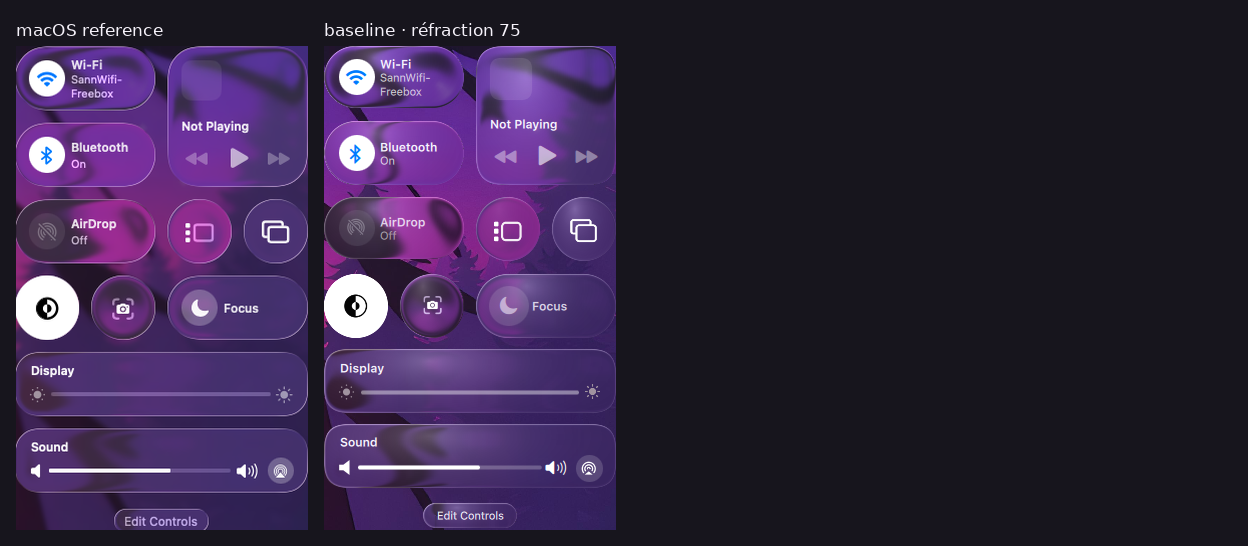
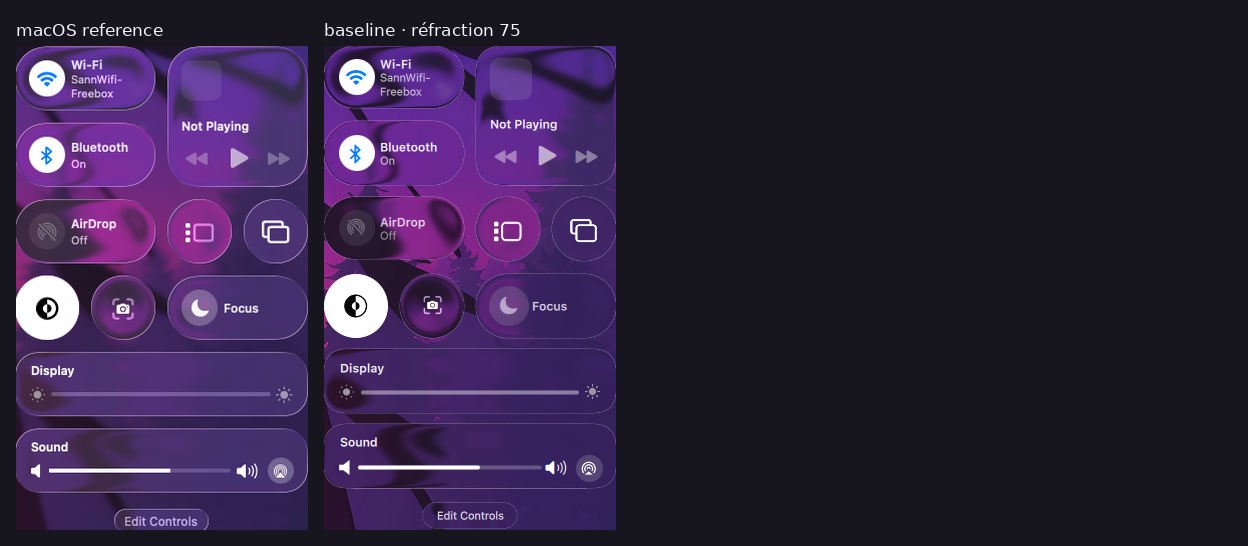
fix(glass): keep outline without reflections

diff --git a/contents/ui/components/GlassCard.qml b/contents/ui/components/GlassCard.qml
@@ -40,6 +40,16 @@ Item {
         cornerExponent: root.roundness
     }
 
+    SquircleSurface {
+        anchors.fill: parent
+        visible: root.useLiquidGlass && !root.solidMode
+        radius: root.cornerRadius
+        fillColor: Qt.rgba(0, 0, 0, 0)
+        strokeColor: root.borderColor
+        strokeWidth: root.borderWidth
+        cornerExponent: root.roundness
+    }
+
     Loader {
         anchors.fill: parent
         active: root.useLiquidGlass
